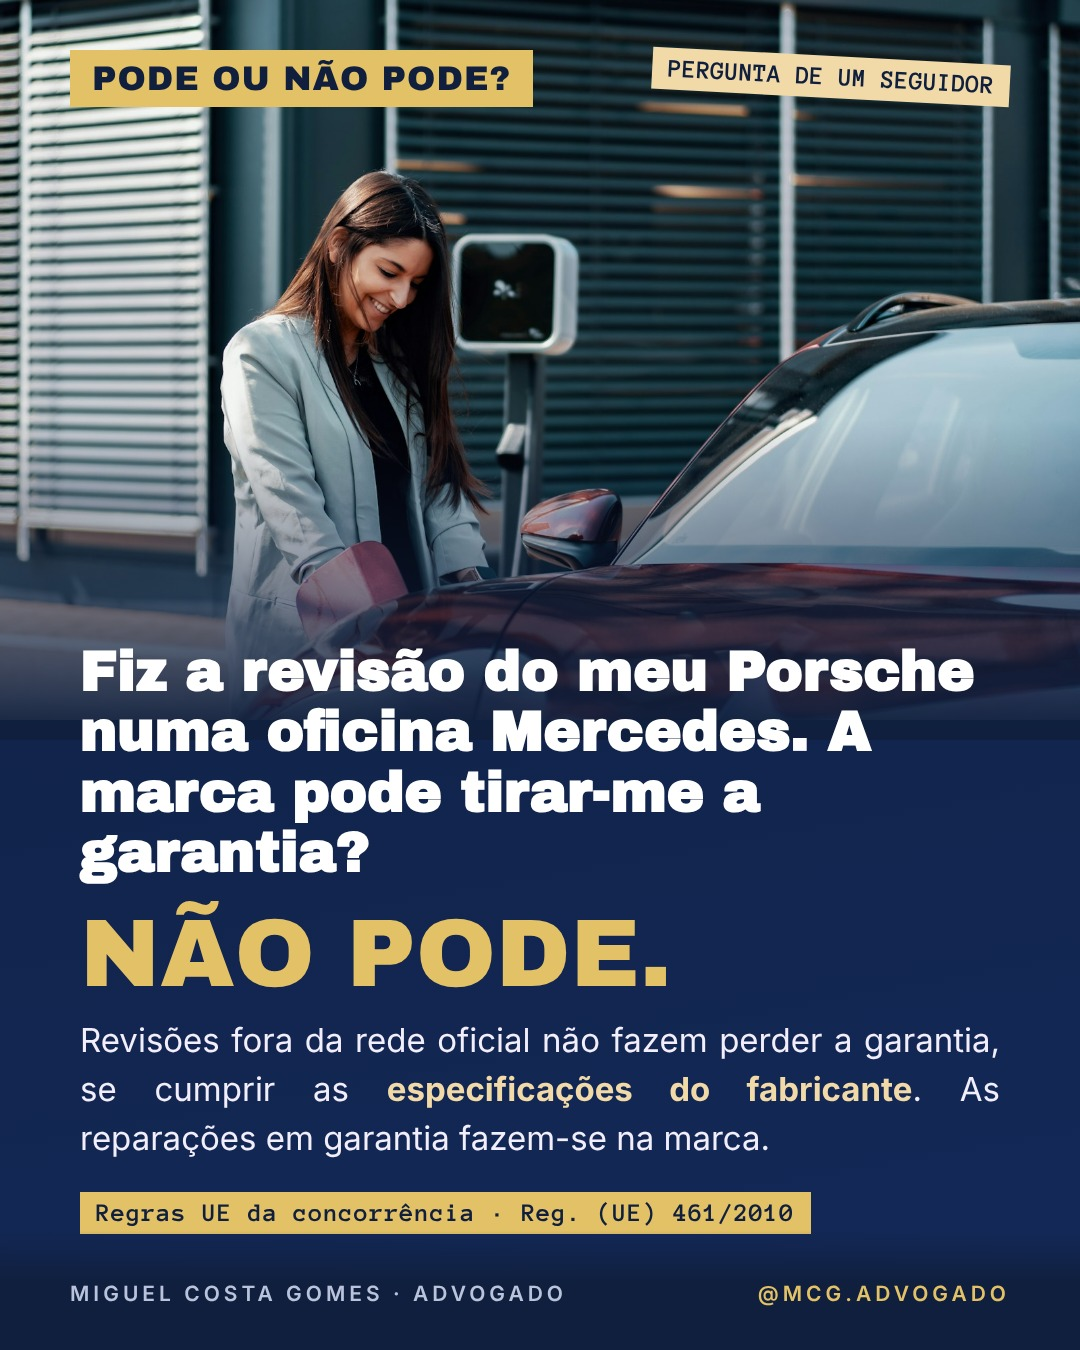
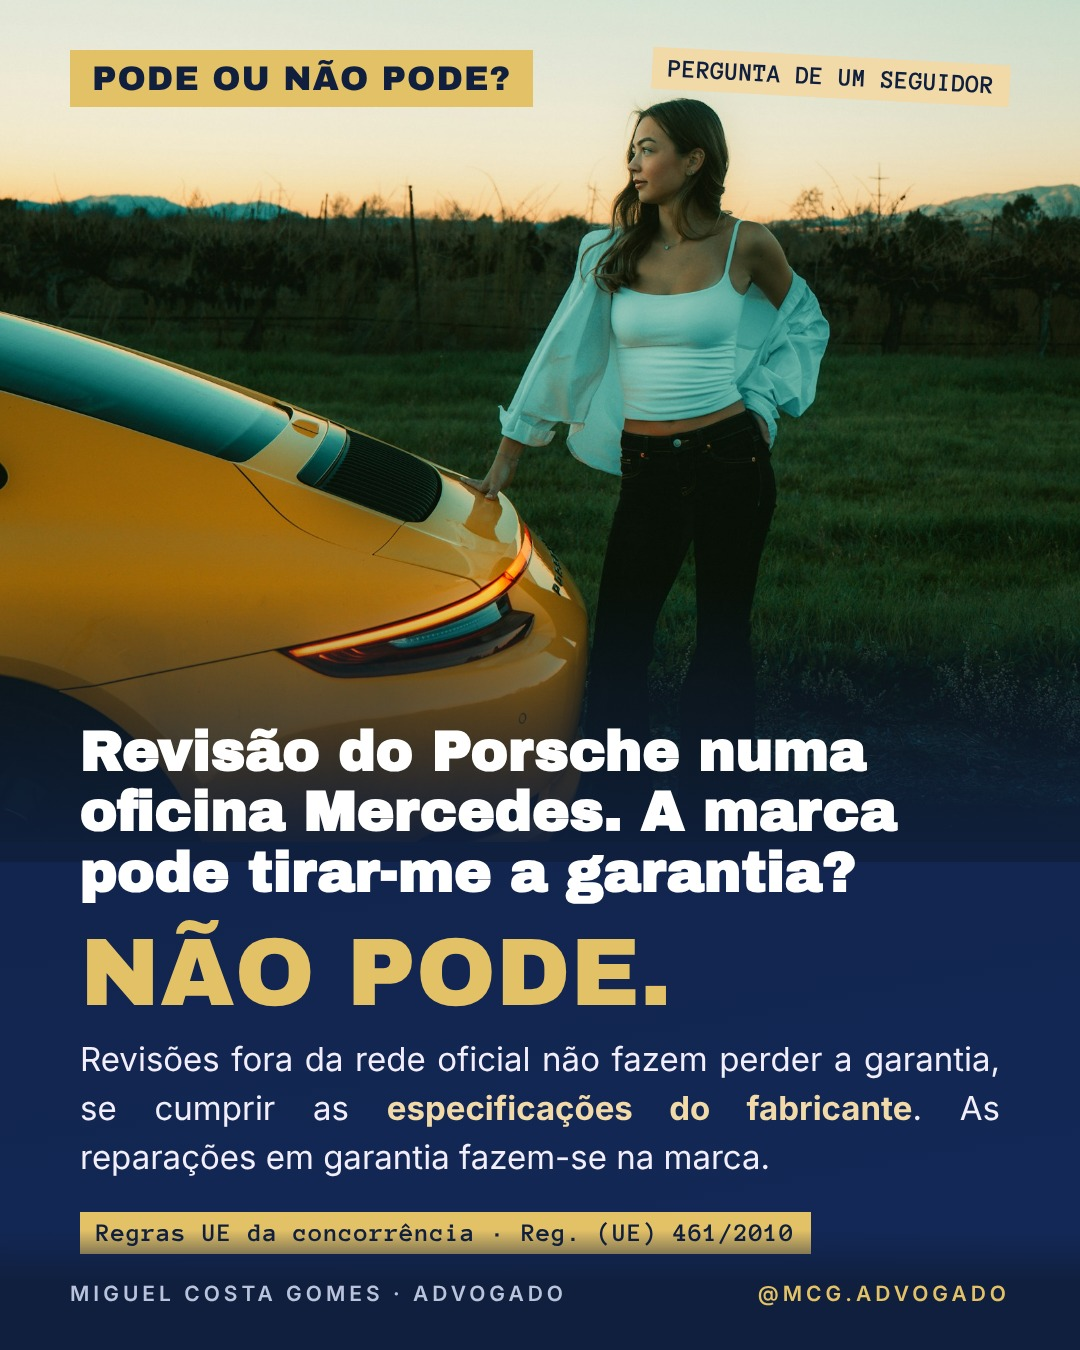
Pode ou não pode? Porsche: foto com Porsche 911 reconhecível
Claude-Session: https://claude.ai/code/session_019NeCH6Z3i9YMQwnop73Fsn

diff --git a/modelos/seguidor-2026-11-22/gen.py b/modelos/seguidor-2026-11-22/gen.py
@@ -48,12 +48,12 @@ FOOT='<div style="position:absolute;left:0;right:0;bottom:0;height:120px;backgro
 def doc(css,body,h=1350):
     return f'<!DOCTYPE html><html><head><meta charset="utf-8"><style>{BASE}{css} body{{height:{h}px}}</style></head><body>{body}</body></html>'
 
-def pode(foto,pos,pergunta,veredicto,texto,lei,qsize=58):
-    return doc(PKG,f'''<div class="photo" style="background-image:url(file://{F}{foto});background-position:{pos};height:720px;bottom:auto"></div>
-<div style="position:absolute;left:0;right:0;top:420px;height:320px;background:linear-gradient(to bottom,rgba(15,31,61,0),#0f1f3d)"></div>
+def pode(foto,pos,pergunta,veredicto,texto,lei,qsize=58,ph=720,top=620):
+    return doc(PKG,f'''<div class="photo" style="background-image:url(file://{F}{foto});background-size:1080px auto;background-position:{pos};height:{ph}px;bottom:auto"></div>
+<div style="position:absolute;left:0;right:0;top:{ph-260}px;height:280px;background:linear-gradient(to bottom,rgba(15,31,61,0),#0f1f3d)"></div>
 <div style="position:absolute;top:50px;left:70px;z-index:5;font-family:AB;font-size:34px;background:#e3c167;color:#0f1f3d;padding:10px 22px;letter-spacing:1px">PODE OU NÃO PODE?</div>
 <div style="position:absolute;top:56px;right:70px;z-index:5;font-family:Mono;font-size:26px;color:#0f1f3d;background:#f1d9a8;padding:8px 16px;transform:rotate(3deg)">PERGUNTA DE UM SEGUIDOR</div>
-<div style="position:absolute;left:80px;right:80px;top:620px;z-index:3">
+<div style="position:absolute;left:80px;right:80px;top:{top}px;z-index:3">
 <h1 style="font-size:{qsize}px">{pergunta}</h1>
 <div style="font-family:AB;font-size:96px;color:#e3c167;margin-top:18px">{veredicto}</div>
 <p style="font-size:33px;margin-top:10px">{texto}</p>
@@ -63,10 +63,10 @@ P={
    'Os vizinhos foram de férias e os filhos fazem festas até de madrugada. Posso fazer queixa?','PODE.',
    'Entre as <b>23h e as 7h</b>, a polícia pode mandar parar o barulho de imediato. Menores sozinhos ou em risco? Qualquer pessoa pode avisar a CPCJ.',
    'DL n.º 9/2007, art. 24.º',56),
- '2026-11-23/1330-imagem': pode('garantia-mulher-carro-vermelho.jpg','center 52%',
-   'Fiz a revisão do meu Porsche numa oficina Mercedes. A marca pode tirar-me a garantia?','NÃO PODE.',
+ '2026-11-23/1330-imagem': pode('garantia-mulher-desportivo-amarelo.jpg','0 -580px',
+   'Revisão do Porsche numa oficina Mercedes. A marca pode tirar-me a garantia?','NÃO PODE.',
    'Revisões fora da rede oficial não fazem perder a garantia, se cumprir as <b>especificações do fabricante</b>. As reparações em garantia fazem-se na marca.',
-   'Regras UE da concorrência · Reg. (UE) 461/2010',56),
+   'Regras UE da concorrência · Reg. (UE) 461/2010',56,ph=842,top=700),
 }
 with sync_playwright() as p:
     b=p.chromium.launch(executable_path='/usr/bin/google-chrome',args=['--no-sandbox','--allow-file-access-from-files'])
